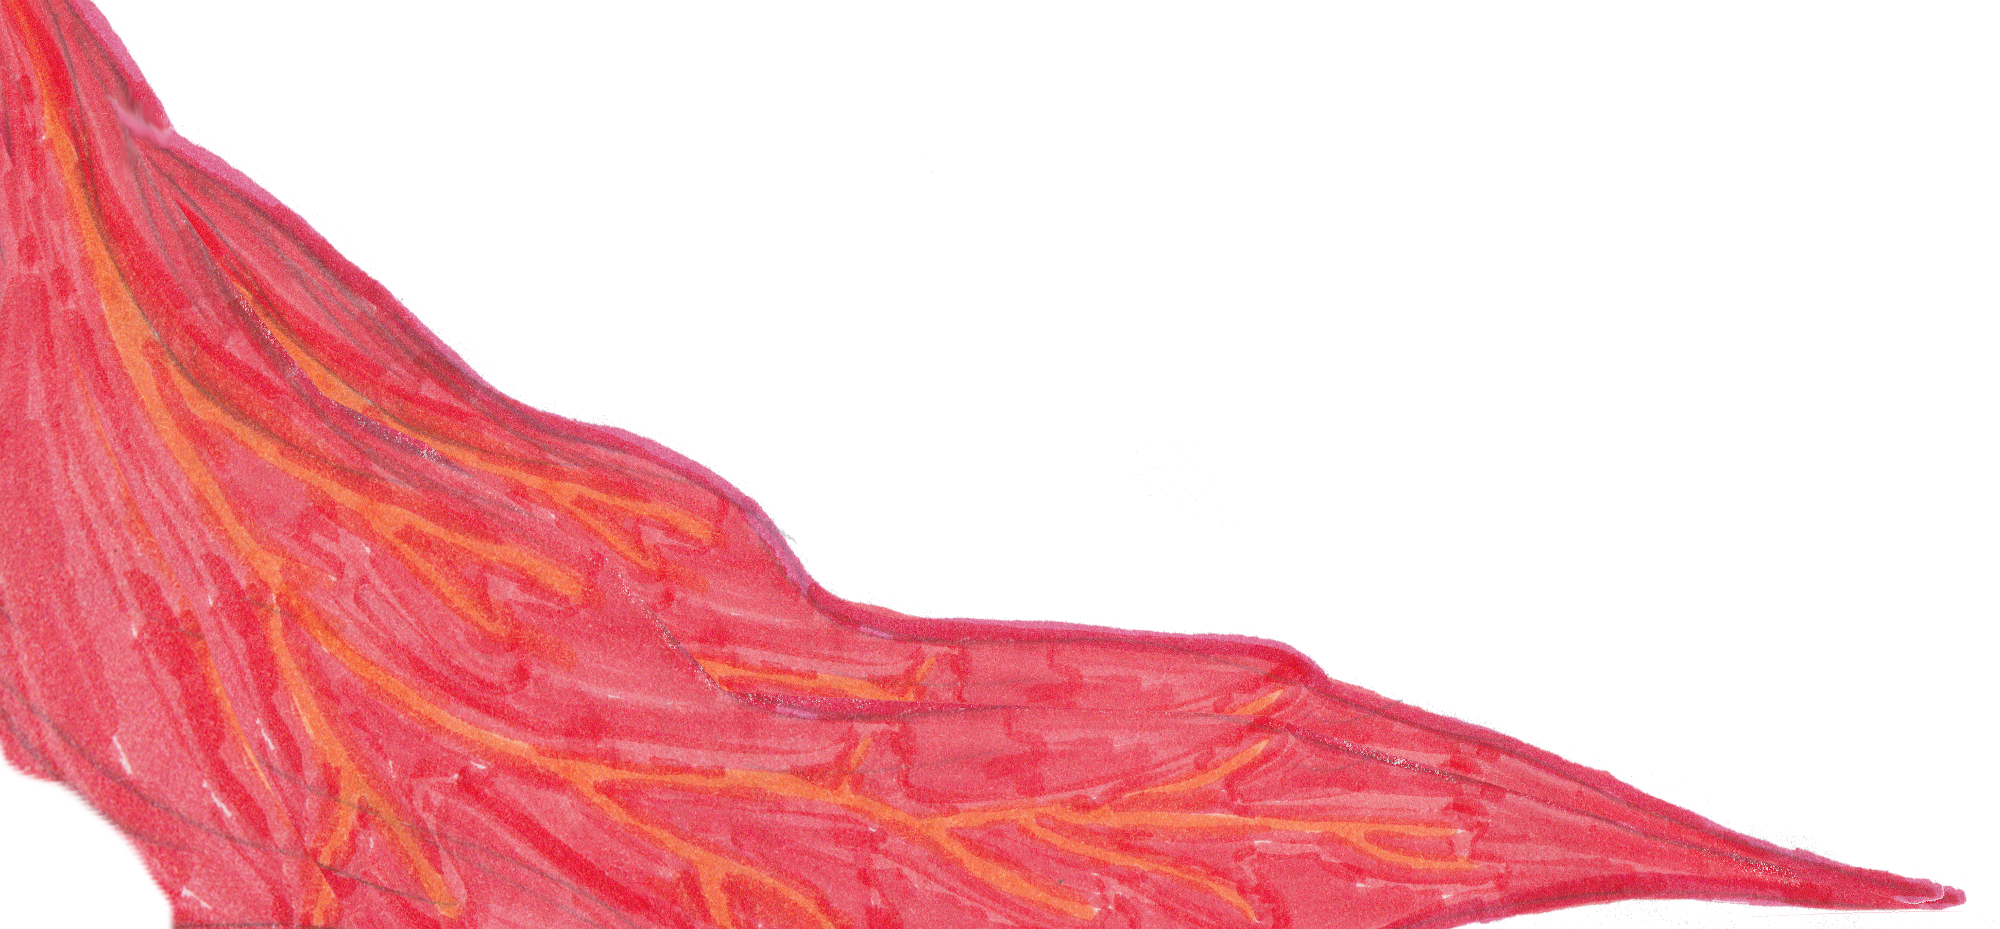
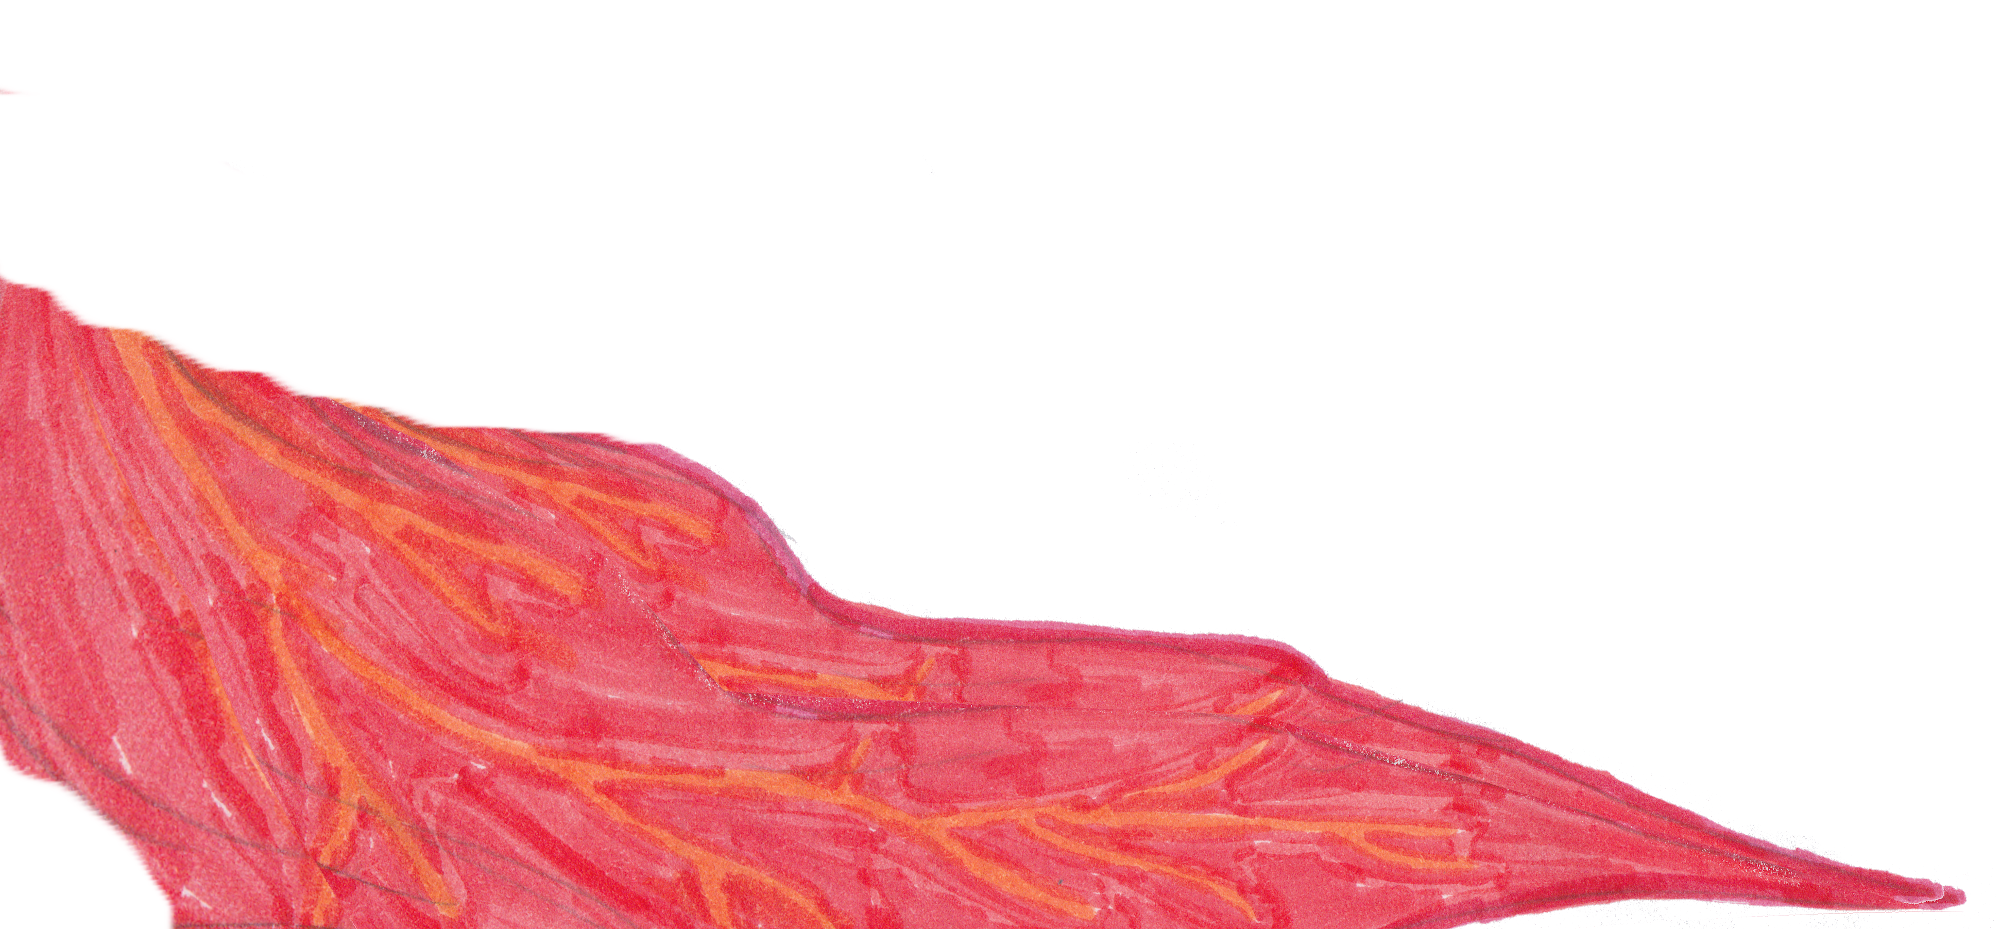
animations fixed

Changed region(s): [[0.0, 0.0, 0.31, 0.4682], [0.31, 0.4682, 0.341, 0.4995]]

diff --git a/script.js b/script.js
@@ -62,9 +62,9 @@ function setWord(e) {
     else {
     chances = chanceBlank.value
     }
-    
+
     remaining.innerText = chances
-    lavaInterval = 40/chances
+    lavaInterval = 60/chances
     smokeInterval = 80/chances
 
     createBoard()
@@ -235,7 +235,7 @@ function resetGame(winnerLoser) {
     lavaWidth = 30
     lava.style.width = `${lavaWidth}%`
     smokeWidth = 0
-    lava.style.width = `${smokeWidth}%`
+    smoke.style.width = `${smokeWidth}%`
     pompeii.style.backgroundImage = "url(/images/pompeii-before.png)"
     board.style.display = "none"
     activeModal.style.display = "none"

diff --git a/style.css b/style.css
@@ -121,7 +121,7 @@ footer {
 
 #lava {
     width: 30%;
-    height: 68%;
+    height: 90%;
     float: bottom left;
     transition-property: width;
     transition-duration: 2000ms; 
@@ -135,10 +135,7 @@ footer {
     justify-content: flex-end;
     transform: translate(-107%, -76%);
     z-index: -1;
-    position: absolute;
-    
-
-    
+    position: absolute;    
 }
 #smoke {
     width: 1%;
